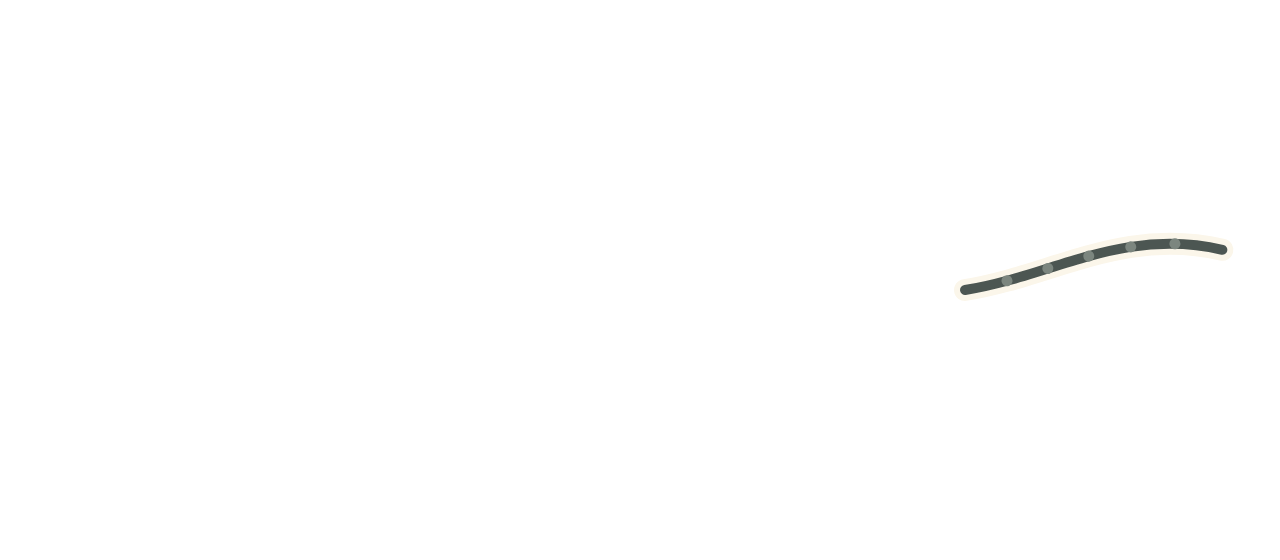
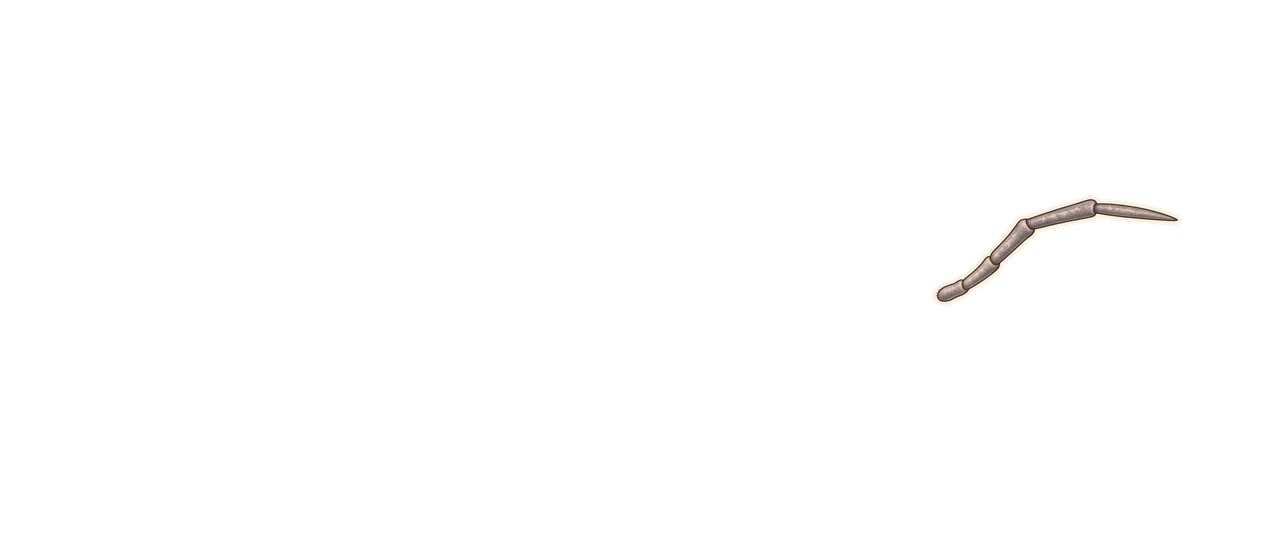
Use GPT-generated woodlouse layers fitted to the paper rig
Body, leg and antenna were generated with one style prompt, then cleaned
(halo removed), scaled to the woodlouse's proportions and placed on the
shared canvas by scripts/fit_paper_woodlouse.py.

Claude-Session: https://claude.ai/code/session_01Nhhi44s9FhDDNvJDw7QQcV

Changed region(s): [[0.7188, 0.3339, 0.9688, 0.5464]]

diff --git a/scripts/fit_paper_woodlouse.py b/scripts/fit_paper_woodlouse.py
@@ -1,0 +1,68 @@
+"""Fit generated woodlouse layers (body, leg, antenna) onto the shared rig canvas.
+
+Usage: python3 scripts/fit_paper_woodlouse.py <folder with woodlouse-body/leg/antenna.png> <out folder>
+Removes the faint halo GPT leaves around cut-outs, scales each part to the
+woodlouse's proportions, and writes body.png, leg-near.png, leg-far.png,
+antenna.png plus rig.json on a 1280x560 canvas.
+"""
+import json, sys
+from pathlib import Path
+from PIL import Image, ImageEnhance
+
+source, out = Path(sys.argv[1]), Path(sys.argv[2])
+out.mkdir(parents=True, exist_ok=True)
+W, H, GROUND = 1280, 560, 505
+
+def clean(name):
+    image = Image.open(source / f'woodlouse-{name}.png').convert('RGBA')
+    alpha = image.getchannel('A').point(lambda a: 0 if a < 40 else min(255, int((a - 40) * 255 / 175)))
+    image.putalpha(alpha)
+    return image.crop(image.getbbox())
+
+def fit(image, width=None, height=None):
+    scale = width / image.width if width else height / image.height
+    return image.resize((round(image.width * scale), round(image.height * scale)), Image.LANCZOS)
+
+def place(image, x, y):
+    canvas = Image.new('RGBA', (W, H))
+    canvas.alpha_composite(image, (round(x), round(y)))
+    return canvas
+
+# Body: tail tip to head about 880 px, belly resting just above the legs.
+body = fit(clean('body'), width=880)
+body_left, body_top = 130, GROUND - 78 - body.height
+alpha = body.getchannel('A')
+def underside(x):
+    column = [alpha.getpixel((x, y)) for y in range(body.height)]
+    return max(y for y, a in enumerate(column) if a > 128)
+place(body, body_left, body_top).save(out / 'body.png')
+
+# Legs: seven pairs under the front two-thirds of the body.
+leg = fit(clean('leg'), height=108)
+hips = [round(body_left + body.width * t) for t in (0.24, 0.33, 0.42, 0.51, 0.60, 0.69, 0.78)]
+hip_y = [body_top + underside(x - body_left) - 34 for x in hips]
+first = (hips[0], hip_y[0])
+place(leg, first[0] - leg.width * 0.45, first[1] - 6).save(out / 'leg-near.png')
+far = ImageEnhance.Brightness(leg).enhance(0.62)
+place(far, first[0] + 18 - leg.width * 0.45, first[1] - 10).save(out / 'leg-far.png')
+
+# Antenna: about a quarter of the body length, base at the head.
+antenna = fit(clean('antenna'), width=250)
+head_x, head_y = body_left + body.width - 70, body_top + body.height * 0.55
+place(antenna, head_x - 8, head_y - antenna.height + 8).save(out / 'antenna.png')
+
+rig = {
+    'canvas': [W, H],
+    'length': {'from': body_left + 40, 'to': body_left + body.width, 'units': 0.64},
+    'ground': GROUND,
+    'parts': [
+        {'file': 'leg-far.png', 'motion': 'leg', 'side': 'far', 'order': 0, 'pivot': [first[0] + 18, first[1] - 4],
+         'repeat': [[x + 18, y - 4] for x, y in zip(hips[1:], hip_y[1:])]},
+        {'file': 'body.png', 'motion': 'body', 'pivot': [body_left + body.width // 2, body_top + body.height]},
+        {'file': 'leg-near.png', 'motion': 'leg', 'side': 'near', 'order': 0, 'pivot': list(first),
+         'repeat': [[x, y] for x, y in zip(hips[1:], hip_y[1:])]},
+        {'file': 'antenna.png', 'motion': 'antenna', 'pivot': [round(head_x), round(head_y)]},
+    ],
+}
+(out / 'rig.json').write_text(json.dumps(rig, indent=2) + '\n')
+print(json.dumps(rig))
